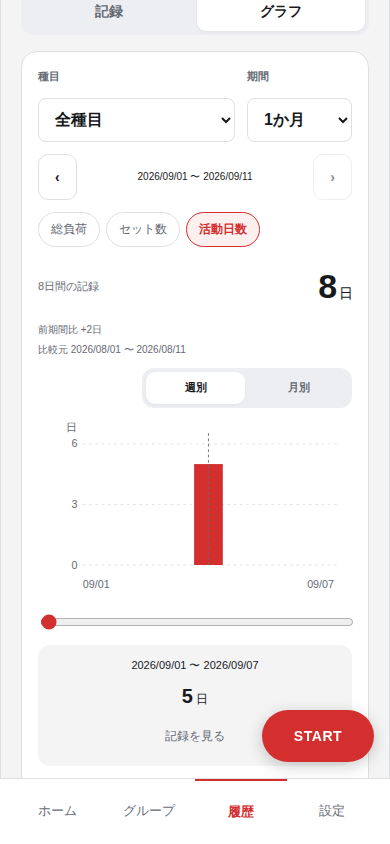
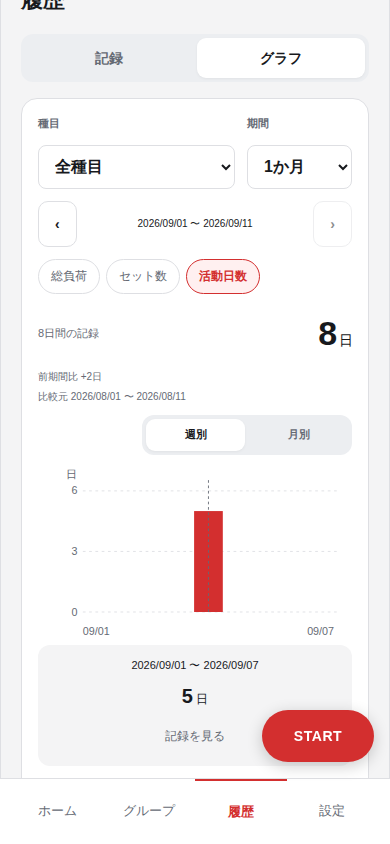
fix: グラフのスライダーを廃止し直接タッチで選択する

diff --git a/frontend/src/features/analytics/chart.tsx b/frontend/src/features/analytics/chart.tsx
@@ -1,4 +1,4 @@
-import { useState } from "react";
+import { useId, useState } from "react";
 import { chartKind, chartMaximum } from "./presentation";
 import { type Metric, type Point, labels, units } from "./types";
 
@@ -18,6 +18,7 @@ export function AnalyticsChart({
   metric: Metric;
   onRecords?: (start: string, end: string) => void;
 }) {
+  const selectionId = useId();
   const [selected, setSelected] = useState(
     Math.max(
       0,
@@ -50,9 +51,13 @@ export function AnalyticsChart({
   if (!point) return <p className="muted">まだ記録がありません</p>;
   return (
     <div className="analytics-chart">
-      <svg
-        viewBox="0 0 350 212"
-        onPointerDown={(event) => {
+      <fieldset
+        className="chart-touch-target"
+        // biome-ignore lint/a11y/noNoninteractiveTabindex: グラフ内の選択を左右キーでも操作できるようにする。
+        tabIndex={0}
+        aria-label="グラフの期間選択"
+        aria-describedby={selectionId}
+        onClick={(event) => {
           const rect = event.currentTarget.getBoundingClientRect();
           const position = ((event.clientX - rect.left) / rect.width) * 350;
           setSelected(
@@ -67,62 +72,74 @@ export function AnalyticsChart({
             ),
           );
         }}
-        role="img"
-        aria-label={`${labels[metric]}の推移`}
+        onKeyDown={(event) => {
+          if (event.target !== event.currentTarget) return;
+          const next =
+            event.key === "ArrowLeft"
+              ? index - 1
+              : event.key === "ArrowRight"
+                ? index + 1
+                : event.key === "Home"
+                  ? 0
+                  : event.key === "End"
+                    ? points.length - 1
+                    : null;
+          if (next === null) return;
+          event.preventDefault();
+          setSelected(Math.max(0, Math.min(points.length - 1, next)));
+        }}
       >
-        <title>{`${labels[metric]}の推移。下のスライダーで期間を選べます。`}</title>
-        {[0, 0.5, 1].map((ratio) => (
-          <g key={ratio}>
-            <line x1="50" x2="334" y1={y(max * ratio)} y2={y(max * ratio)} className="chart-grid" />
-            <text x="44" y={y(max * ratio) + 4} textAnchor="end">
-              {number(max * ratio)}
-            </text>
-          </g>
-        ))}
-        <text x="44" y="26" textAnchor="end">
-          {units[metric]}
-        </text>
-        {!bars && paths.map((d) => <path key={d} d={d} fill="none" className="chart-line" />)}
-        {points.map((p, i) =>
-          p[metric] == null ? null : bars ? (
-            <rect
-              key={p.start}
-              x={x(i) - barWidth / 2}
-              y={y(p[metric])}
-              width={barWidth}
-              height={175 - y(p[metric])}
-              className="chart-bar"
-              opacity={i === index ? 1 : 0.65}
-            />
-          ) : (
-            <circle
-              key={p.start}
-              cx={x(i)}
-              cy={y(p[metric])}
-              r={i === index ? 5 : 2.5}
-              className="chart-dot"
-            />
-          ),
-        )}
-        <line x1={x(index)} x2={x(index)} y1="28" y2="178" className="chart-cursor" />
-        <text x="50" y="201">
-          {points[0].start.slice(5).replace("-", "/")}
-        </text>
-        <text x="330" y="201" textAnchor="end">
-          {points.at(-1)?.end.slice(5).replace("-", "/")}
-        </text>
-      </svg>
-      <input
-        className="chart-slider"
-        type="range"
-        min="0"
-        max={Math.max(0, points.length - 1)}
-        value={index}
-        aria-label="グラフの期間"
-        aria-valuetext={`${dates(point.start, point.end)} ${number(point[metric])}${units[metric]}`}
-        onChange={(event) => setSelected(Number(event.target.value))}
-      />
-      <div className="chart-selection" aria-live="polite">
+        <svg viewBox="0 0 350 212" role="img" aria-label={`${labels[metric]}の推移`}>
+          <title>{`${labels[metric]}の推移。グラフをタッチして期間を選べます。キーボードでは左右キーで選べます。`}</title>
+          {[0, 0.5, 1].map((ratio) => (
+            <g key={ratio}>
+              <line
+                x1="50"
+                x2="334"
+                y1={y(max * ratio)}
+                y2={y(max * ratio)}
+                className="chart-grid"
+              />
+              <text x="44" y={y(max * ratio) + 4} textAnchor="end">
+                {number(max * ratio)}
+              </text>
+            </g>
+          ))}
+          <text x="44" y="26" textAnchor="end">
+            {units[metric]}
+          </text>
+          {!bars && paths.map((d) => <path key={d} d={d} fill="none" className="chart-line" />)}
+          {points.map((p, i) =>
+            p[metric] == null ? null : bars ? (
+              <rect
+                key={p.start}
+                x={x(i) - barWidth / 2}
+                y={y(p[metric])}
+                width={barWidth}
+                height={175 - y(p[metric])}
+                className="chart-bar"
+                opacity={i === index ? 1 : 0.65}
+              />
+            ) : (
+              <circle
+                key={p.start}
+                cx={x(i)}
+                cy={y(p[metric])}
+                r={i === index ? 5 : 2.5}
+                className="chart-dot"
+              />
+            ),
+          )}
+          <line x1={x(index)} x2={x(index)} y1="28" y2="178" className="chart-cursor" />
+          <text x="50" y="201">
+            {points[0].start.slice(5).replace("-", "/")}
+          </text>
+          <text x="330" y="201" textAnchor="end">
+            {points.at(-1)?.end.slice(5).replace("-", "/")}
+          </text>
+        </svg>
+      </fieldset>
+      <div id={selectionId} className="chart-selection" aria-live="polite">
         <span>{dates(point.start, point.end)}</span>
         <strong>
           {number(point[metric])}

diff --git a/frontend/src/app/v2.css b/frontend/src/app/v2.css
@@ -1375,6 +1375,7 @@
   width: 100%;
   overflow: visible;
   touch-action: pan-y pinch-zoom;
+  -webkit-tap-highlight-color: transparent;
 }
 .analytics-chart svg text {
   fill: var(--muted);
@@ -1401,12 +1402,18 @@
   stroke-width: 1;
   stroke-dasharray: 3 3;
 }
-.analytics-chart .chart-slider {
-  width: 100%;
-  min-height: 32px;
+.chart-touch-target {
+  border: 0;
   padding: 0;
-  accent-color: var(--accent);
+  margin: 0;
+  min-width: 0;
   cursor: pointer;
+  touch-action: pan-y pinch-zoom;
+  -webkit-tap-highlight-color: transparent;
+}
+.chart-touch-target:focus-visible {
+  outline: 2px solid var(--accent);
+  outline-offset: 3px;
 }
 .chart-selection {
   display: flex;
@@ -1945,6 +1952,7 @@
 
 .group-carousel {
   touch-action: pan-y pinch-zoom;
+  -webkit-tap-highlight-color: transparent;
 }
 .group-carousel.is-reordering {
   overflow-anchor: none;

diff --git a/frontend/tests/unit/analytics-chart.test.tsx b/frontend/tests/unit/analytics-chart.test.tsx
@@ -41,3 +41,13 @@ test("総負荷とセット数は未記録日の0を残し、重量の実測が1
   expect(html.match(/class="chart-dot"/g)?.length).toBe(1);
   expect(html).not.toContain(" L");
 });
+
+test("位置選択用スライダーを表示せず、グラフから期間を選べる", () => {
+  const html = renderToStaticMarkup(
+    <AnalyticsChart points={[point(1, 60), point(2, 80)]} metric="weight" />,
+  );
+  expect(html).not.toContain('type="range"');
+  expect(html).not.toContain("スライダー");
+  expect(html).toContain('aria-label="グラフの期間選択"');
+  expect(html).toContain('tabindex="0"');
+});

diff --git a/progress.md b/progress.md
@@ -2337,3 +2337,16 @@
 - 影響範囲・関連ファイル: docs/images/pr-161/、progress.md。アプリ変更なし。
 - 検証: 実装画面の撮影用Playwright3件成功。画像を目視確認。文書と画像のみのため先行テスト・make checkの再実行は省略し、git diff --checkを確認する。
 - 未解決事項・次のアクション: 実機Safariは未検証。PR本文の画像表示を確認する。
+
+## 2026-09-15 04:35
+- 変更内容・目的: ユーザー指定に従い、#161の位置スライダーを廃止してグラフを直接タッチする操作へ変更。
+- 影響範囲・関連ファイル: analytics/chart.tsx、v2.css、グラフ単体/E2E、docs/history-analytics.md、task.md。指標計算/API/DB変更なし。比較プレビューは既に直接タッチのため変更不要。
+- 検証: スライダーを出さない先行単体テストが実装前に失敗することを確認。タッチ・0値・縦スクロール・キーボード・記録リンクをE2Eで検証する。
+- 未解決事項・次のアクション: make check、関連E2E、PR画像をスライダーなしの画面に更新する。
+
+## 2026-09-15 04:44
+- 変更内容: スライダーを削除し、グラフの直接タップで選択する操作を完了。縦スクロール・ピンチ拡大を妨げず、左右/Home/Endのキー操作と値の読み上げも保持。タッチ時の灰色の強調を抑え、PR画像3枚を差し替え。
+- 目的・影響範囲: ユーザー指定のタッチ選択のみを#161へ追加。比較プレビューのA/B/C案は採用前のまま。
+- 関連ファイル: analytics/chart.tsx、v2.css、analytics単体/E2E、docs/history-analytics.md、docs/images/pr-161/。
+- 検証: make check成功（backend245件・frontend84件・lint・型検査・build）。最後のCSS調整後も関連E2E6件成功し、画像を確認。先行E2Eの1件はinnerTextとtextContentの改行差による比較失敗だったため同じ取得方法へ揃え、縦スクロール量の確認も追加して成功。最終CSSのproduction buildも追加確認で成功。
+- 未解決事項・次のアクション: 実機Safariは未確認。PR本文と画像の固定リンクを更新し、CIを再実行する。

diff --git a/docs/images/pr-161/README.md b/docs/images/pr-161/README.md
@@ -1,9 +1,9 @@
 # PR #161 の影響画面
 
-ユーザー指定により、実装画面を390×844pxのChromiumで撮影。データは既存E2Eと同じ方式のサンプルで、実際のユーザー情報ではない。
+ユーザー指定により、位置選択スライダーをなくした実装画面を390×844pxのChromiumで再撮影。データはE2Eのサンプルで、実ユーザー情報ではない。
 
-- [161-days.png](161-days.png)
-- [161-weight.png](161-weight.png)
-- [161-people.png](161-people.png)
+- [活動日数：週/月の棒グラフ](161-days.png)
+- [最高重量：点を直接タッチして選択](161-weight.png)
+- [グループの活動人数：棒グラフ](161-people.png)
 
-#159/#160/#161の統合版49d41abの画面を使用。全193件のE2E成功後、撮影用3件でも表示・操作を確認した。グラフの追加デザイン案とは別の実装済み画面。
+撮影は analytics.spec.ts の6件で実施。0値の選択、縦スクロールで選択を変えないこと、キーボード、記録へのリンク、実DBの共有範囲も確認。比較プレビューの追加案は未実装のまま。

diff --git a/docs/history-analytics.md b/docs/history-analytics.md
@@ -48,3 +48,7 @@
 - 総負荷・セット数・活動日数・活動人数は期間ごとの棒グラフ、最高重量・最高推定1RMは実測を結ぶ折れ線にする。
 - 活動日数は週別・月別のみ。日別の0/1日を表示する選択肢は設けない。APIが返す粒度の範囲内で選ぶ。
 - セット数・日数・人数の縦軸目盛りは整数、縦軸に単位を明記する。重量の小数・欠測、未記録の総負荷0、記録への日付範囲リンクは保持する。
+
+## グラフの直接タッチ（2026-09-15 追加指定）
+
+位置選択用のスライダーは表示せず、グラフを直接タッチして期間と値を選ぶ。0の棒でもその日付の領域から選択できる。縦スクロール開始時には選択を変えず、タップ確定で反映する。キーボードではグラフ領域にフォーカスし、左右/Home/Endで選ぶ。選択値の読み上げと期間別記録への導線を保つ。

diff --git a/task.md b/task.md
@@ -440,7 +440,7 @@
 
 ### タスク名: 指標に合うグラフと集計単位（関連 #113）
 - 目的: 活動日数の日別表示や、件数の折れ線・小数目盛りなどの誤解をなくす。
-- 主な実装内容: 活動日数は週/月の棒、数量系は棒、重量/RMは折れ線、整数指標の目盛りを整理する。
+- 主な実装内容: 活動日数は週/月の棒、数量系は棒、重量/RMは折れ線、整数指標の目盛りを整理する。位置選択スライダーを廃止し、グラフの直接タッチを使う。
 - 完了条件: 指標/粒度切替・0/欠測/長期間・記録リンク・共有集計を検証し独立PRにする。
 - 備考: 2026-09-15の新しい指定による修正。以前保留の分析画面全体の再構成は含めず、読み込み表示/グループ上限も別PR。
 
